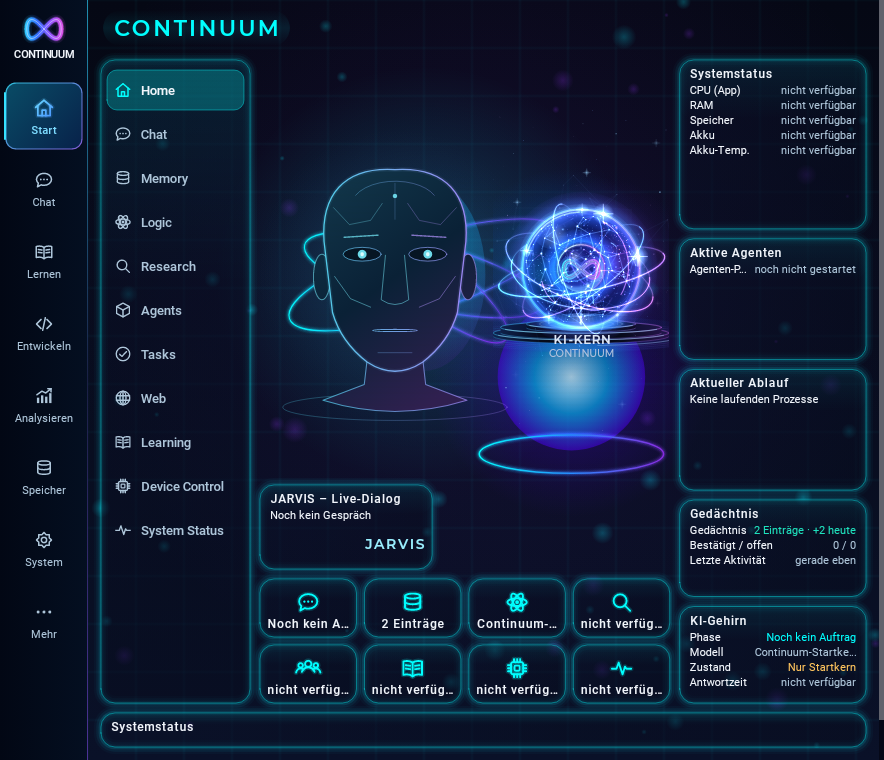
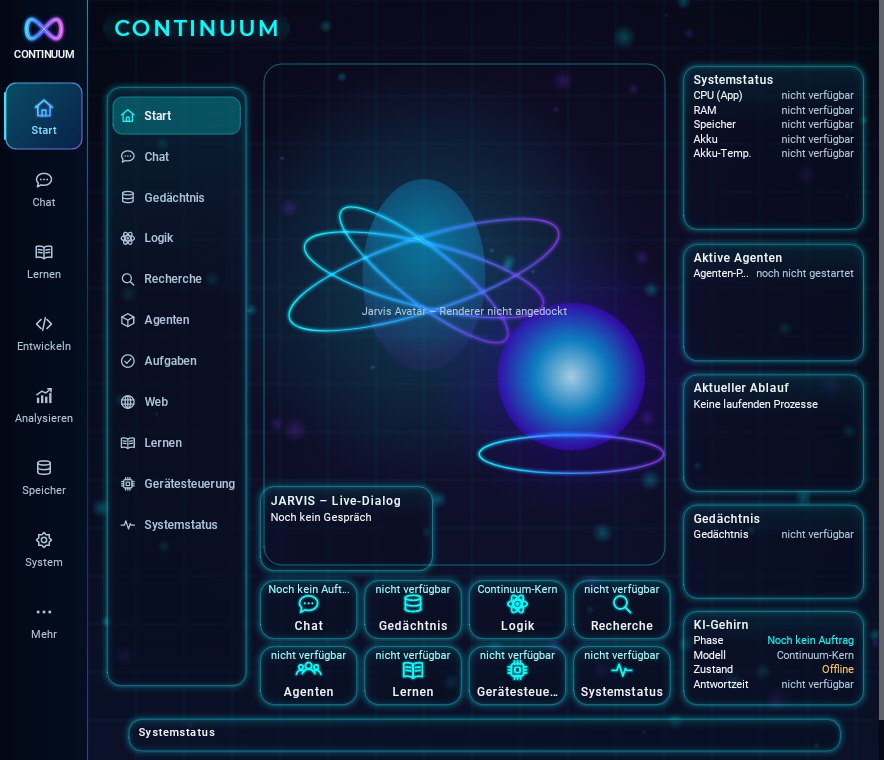
Verträge ergänzt (Alarm, C_WARP, AvatarPresentation, Motion-Interfaces, AudioLevelSource), ARCHITEKTUR-JARVIS.md, UI-Tests grün
Fertig:
- AlarmRaised/AlarmCleared + AlarmKind, nur aus echten Signalen: Thermal-Status (API 29+), onTrimMemory,
  Worker-Warteschlange voll. Flankengesteuert über triggers.alarm(). Darstellung über den Hook (Lückenfüller).
- TransitionPattern.C_WARP (nur Hook) und JarvisAvatarRenderer.onPresentation(AvatarPresentation HEAD/FULL_BODY_ORB).
- motion/MotionContracts.kt (pure Kotlin): Easing, SpringCurve, Stagger, MotionTrack, MotionTimeline (nur Interface,
  die Klasse liefert Mathematik), FaceWeightsSource (21 Blendshapes #478), AudioLevelSource, VisemeHintSource, MotionLibrary.
  Produktions-AudioLevelSource = TtsHologramSignal (0..1, Stille 0).
- Avatar-Slot: Hologramm nur abgeklemmt (GONE, solange das Home es hält); im Chat bleibt derselbe Avatar sichtbar.
- docs/ARCHITEKTUR-JARVIS.md: Komponenten, Ereignisse, Schnittstellen pro Bot, Datenquellen, Memory-Events
  (#371 noch nicht produktiv: LEX3/LEX4), Quelle fehlt, #479-Lücken, Branches.
Tests: cockpit.* inkl. Alarm-Test, ContinuumCockpit*, JarvisShellStageUiTest (3), ContinuumReferenceCockpitUiTest (8) grün.
Offen: Zeitachse + Szene 1, Bloom/Glas/Tiefe, PR-Notiz.

diff --git a/app/src/main/java/at/heinz/deviceai/AgentActivity.kt b/app/src/main/java/at/heinz/deviceai/AgentActivity.kt
@@ -953,6 +953,7 @@ class AgentActivity : Activity() {
             cockpitBus.subscribe { runOnUiThread { pushCockpitState() } }
         )
         subscribeMemoryEvents()
+        subscribeRealSignals()
         dashboard.addView(home, matchWidth())
         workStatusView = textView("Bereit", 13f, ACCENT).apply {
             setPadding(dp(16), dp(10), dp(16), dp(10))
@@ -1197,6 +1198,37 @@ class AgentActivity : Activity() {
     }
 
     /** Live cockpit inputs from the Activity's real sources (turn, worker pool, steps, visible dialog). */
+    /** Real level/alarm signals for the cockpit timeline (no simulated values). */
+    private fun subscribeRealSignals() {
+        at.heinz.deviceai.motion.MotionLibrary.audioLevel =
+            at.heinz.deviceai.motion.AudioLevelSource { t -> voiceSignal.level(t).coerceIn(0f, 1f) }
+        cockpitSubscriptions += AutoCloseable {
+            at.heinz.deviceai.motion.MotionLibrary.audioLevel = at.heinz.deviceai.motion.AudioLevelSource { 0f }
+        }
+        if (android.os.Build.VERSION.SDK_INT >= android.os.Build.VERSION_CODES.Q) {
+            val power = getSystemService(android.os.PowerManager::class.java) ?: return
+            val listener = android.os.PowerManager.OnThermalStatusChangedListener { status ->
+                cockpitTriggers.alarm(at.heinz.deviceai.cockpit.AlarmKind.THERMAL,
+                    status >= android.os.PowerManager.THERMAL_STATUS_SEVERE, "Thermal-Status",
+                    status.toDouble(), android.os.PowerManager.THERMAL_STATUS_SEVERE.toDouble())
+            }
+            power.addThermalStatusListener(mainExecutor, listener)
+            cockpitSubscriptions += AutoCloseable { power.removeThermalStatusListener(listener) }
+        }
+    }
+
+    override fun onTrimMemory(level: Int) {
+        super.onTrimMemory(level)
+        @Suppress("DEPRECATION")
+        val pressure = level == android.content.ComponentCallbacks2.TRIM_MEMORY_RUNNING_LOW ||
+            level == android.content.ComponentCallbacks2.TRIM_MEMORY_RUNNING_CRITICAL ||
+            level == android.content.ComponentCallbacks2.TRIM_MEMORY_COMPLETE
+        if (pressure) cockpitTriggers.alarm(at.heinz.deviceai.cockpit.AlarmKind.MEMORY_PRESSURE, true, "onTrimMemory",
+            level.toDouble(), android.content.ComponentCallbacks2.TRIM_MEMORY_RUNNING_LOW.toDouble())
+        else if (level == android.content.ComponentCallbacks2.TRIM_MEMORY_UI_HIDDEN) Unit
+        else cockpitTriggers.alarm(at.heinz.deviceai.cockpit.AlarmKind.MEMORY_PRESSURE, false, "onTrimMemory")
+    }
+
     /** Memory events → cockpit bus, coalesced on the main thread (closed with the other cockpit subscriptions). */
     private fun subscribeMemoryEvents() {
         val source = at.heinz.deviceai.cockpit.MemoryEventSources.production ?: return
@@ -2295,6 +2327,7 @@ class AgentActivity : Activity() {
         )
         effectContext?.let { chiefTaskEffectContexts[brief.id] = it }
         val accepted = pool.submit(brief) { report ->
+            cockpitTriggers.alarm(at.heinz.deviceai.cockpit.AlarmKind.DATA_OVERLOAD, false, "Worker-Warteschlange")
             chiefTaskEffectContexts.remove(brief.id)
             cockpitTriggers.workerReported(report)
             runOnUiThread { lastChiefWorkerReport = report }
@@ -2309,6 +2342,10 @@ class AgentActivity : Activity() {
             }
         }
         if (accepted) cockpitTriggers.workerStarted(brief.id, brief.goal)
+        // Real signal: the pool refused because running + queued reached its capacity.
+        if (!accepted && pool.snapshot().size >= pool.capacity) cockpitTriggers.alarm(
+            at.heinz.deviceai.cockpit.AlarmKind.DATA_OVERLOAD, true, "Worker-Warteschlange",
+            pool.snapshot().size.toDouble(), pool.capacity.toDouble())
         if (!accepted) {
             chiefTaskEffectContexts.remove(brief.id)
             addAssistantMessage(

diff --git a/app/src/main/java/at/heinz/deviceai/motion/MotionContracts.kt b/app/src/main/java/at/heinz/deviceai/motion/MotionContracts.kt
@@ -1,0 +1,54 @@
+package at.heinz.deviceai.motion
+
+/*
+ * Pure-Kotlin motion contracts (owner of the interface: Jarvis Kern; implementation: Jarvis Mathematik).
+ * No Android imports. The cockpit timeline uses an implementation when one is registered in [MotionLibrary]
+ * and falls back to the current JarvisMotion defaults otherwise.
+ */
+
+fun interface Easing { fun at(t: Float): Float }
+
+interface SpringCurve {
+    fun valueAt(tSec: Float): Float
+    val settleSec: Float
+}
+
+fun interface Stagger { fun delaySec(index: Int, count: Int): Float }
+
+/**
+ * Visemes/blendshapes, blink, breathing. Writes into [out] (size = channelNames.size) in the
+ * FilamentAvatarRenderer (#478) 21-blendshape order; must not allocate.
+ */
+interface FaceWeightsSource {
+    val channelNames: List<String>
+    fun weightsAt(timeMs: Long, out: FloatArray)
+}
+
+data class MotionTrack(val key: String, val startMs: Long, val durationMs: Long, val easing: Easing)
+
+/**
+ * Agreed shape (interface only, Mathematik ships the class): evaluates every track at [tMs] into [out]
+ * (index = track order, value 0..1 eased progress); must not allocate.
+ */
+interface MotionTimeline {
+    val tracks: List<MotionTrack>
+    val totalMs: Long
+    fun evaluate(tMs: Long, out: FloatArray)
+}
+
+/** 0..1 normalised RMS of the real TTS/mic output; silence = 0. Drives waveform AND lip-sync. */
+fun interface AudioLevelSource { fun levelAt(timeMs: Long): Float }
+
+/** Optional: viseme index only if the TTS engine provides phonemes; null = none. */
+fun interface VisemeHintSource { fun visemeAt(timeMs: Long): Int? }
+
+/** Registration point; null = cockpit defaults. */
+object MotionLibrary {
+    /** Production instance set by the app from TtsHologramSignal (clock: SystemClock.elapsedRealtime). */
+    @Volatile var audioLevel: AudioLevelSource = AudioLevelSource { 0f }
+    @Volatile var visemeHint: VisemeHintSource? = null
+    @Volatile var easing: Easing? = null
+    @Volatile var spring: SpringCurve? = null
+    @Volatile var stagger: Stagger? = null
+    @Volatile var faceWeights: FaceWeightsSource? = null
+}

diff --git a/app/src/main/java/at/heinz/deviceai/cockpit/CockpitContracts.kt b/app/src/main/java/at/heinz/deviceai/cockpit/CockpitContracts.kt
@@ -23,9 +23,13 @@ interface JarvisAvatarRenderer {
     fun detach()
     /** Optional: slot moved/resized (rotation, fold, font scale). */
     fun onSlotChanged(slot: Rect) = Unit
+    /** Optional: head only vs. full body with orb (video 3). */
+    fun onPresentation(mode: AvatarPresentation) = Unit
     /** Optional: full avatar contract events (speech, visemes, audio level, gaze) for lip-sync. */
     fun onAvatarEvent(event: AvatarEvent) = Unit
 }
+
+enum class AvatarPresentation { HEAD, FULL_BODY_ORB }
 
 object JarvisAvatarSlot {
     @Volatile var renderer: JarvisAvatarRenderer? = null
@@ -71,9 +75,17 @@ interface CockpitActionHandler {
 }
 
 /** A = menu/scene change as depth move (JarvisMotion.Depth); B = area/panel fly-in (JarvisShellView.playEntrance). */
-enum class TransitionPattern { A_DEPTH, B_FLY_IN }
+enum class TransitionPattern { A_DEPTH, B_FLY_IN, C_WARP }
 
 const val NAV_TURN = "nav"
+
+// ---- Alarms, video 3 (Jarvis Lückenfüller draws them; emitted only from real signals) ----
+
+/**
+ * DATA_OVERLOAD: memory event hub dropped events (droppedEventCount rising) or the worker queue is full.
+ * THERMAL: PowerManager thermal status. MEMORY_PRESSURE: onTrimMemory / low-memory.
+ */
+enum class AlarmKind { DATA_OVERLOAD, THERMAL, MEMORY_PRESSURE }
 
 // ---- Answer pills and Gmail, patterns F/G (implemented by Jarvis Sicherheit) ----
 

diff --git a/app/src/main/java/at/heinz/deviceai/ui/CockpitAnimationPresenter.kt b/app/src/main/java/at/heinz/deviceai/ui/CockpitAnimationPresenter.kt
@@ -43,6 +43,7 @@ class CockpitAnimationPresenter(private val home: ContinuumHomeView) : CockpitAn
         when (event.pattern) {
             at.heinz.deviceai.cockpit.TransitionPattern.B_FLY_IN ->
                 if (home.jarvisShellStage) home.jarvisShell.playEntrance() else if (home.landscapeCockpit) flyInCards()
+            at.heinz.deviceai.cockpit.TransitionPattern.C_WARP -> Unit // visual via hook only (no default)
             at.heinz.deviceai.cockpit.TransitionPattern.A_DEPTH -> if (motionAllowed()) {
                 val s = JarvisMotion.Depth.scale(JarvisMotion.Depth.Layer.FAR)
                 home.animate().cancel()
@@ -92,6 +93,9 @@ class CockpitAnimationPresenter(private val home: ContinuumHomeView) : CockpitAn
                 event.steps.take(4).map { it.label + " = " + it.value } + ("Ergebnis = " + event.result + (event.unit?.let { " $it" } ?: "")),
                 motionAllowed())
             is CockpitAnimationEvent.AreaChanged -> Unit // handled by playArea
+            // Alarm visuals belong to Jarvis Lückenfüller (hook); minimal default: system card glows.
+            is CockpitAnimationEvent.AlarmRaised -> highlight(Slot.SYSTEM_STATUS)
+            is CockpitAnimationEvent.AlarmCleared -> Unit
             is CockpitAnimationEvent.Extension -> Unit // unknown kinds are ignored by design
         }
     }

diff --git a/app/src/main/java/at/heinz/deviceai/ui/ContinuumHomeView.kt b/app/src/main/java/at/heinz/deviceai/ui/ContinuumHomeView.kt
@@ -178,8 +178,19 @@ class ContinuumHomeView(context: Context, val hologram: ContinuumHologramView, p
             dockedRenderer = null
             if (wanted != null && !avatarRect.isEmpty) { wanted.attach(this, android.graphics.Rect(avatarRect)); dockedRenderer = wanted }
         }
-        hologram.visibility = if (owns) View.GONE else View.VISIBLE
+        // Only while the home hosts it: chat and other panes reparent the same avatar and keep it visible.
+        if (hologram.parent === this) hologram.visibility = if (owns) View.GONE else View.VISIBLE
         avatarPlaceholder.visibility = if (owns && dockedRenderer == null) View.VISIBLE else View.GONE
+    }
+
+    override fun onViewRemoved(child: View?) {
+        super.onViewRemoved(child)
+        if (child === hologram) child.visibility = View.VISIBLE
+    }
+
+    override fun onViewAdded(child: View?) {
+        super.onViewAdded(child)
+        if (child === hologram && views.isNotEmpty()) applyAvatarSlot()
     }
 
     private fun layoutAvatarSlot(left: Int, top: Int, right: Int, bottom: Int) {

diff --git a/app/src/test/java/at/heinz/deviceai/cockpit/CockpitContractsTest.kt b/app/src/test/java/at/heinz/deviceai/cockpit/CockpitContractsTest.kt
@@ -58,4 +58,18 @@ class CockpitContractsTest {
             CockpitAnimationEvent.AreaChanged(NAV_TURN, 7L, "home", "memory", TransitionPattern.B_FLY_IN),
             CockpitAnimationEvent.AreaChanged(NAV_TURN, 7L, null, "logic", TransitionPattern.A_DEPTH)), seen)
     }
+
+    @Test fun alarmsAreEdgeTriggeredFromRealSignals() {
+        val bus = CockpitAnimationBus()
+        val seen = mutableListOf<CockpitAnimationEvent>()
+        bus.subscribe { seen += it }
+        val t = CockpitAnimationTriggers(bus) { 3L }
+        t.alarm(AlarmKind.THERMAL, true, "Thermal-Status", 4.0, 3.0)
+        t.alarm(AlarmKind.THERMAL, true, "Thermal-Status", 5.0, 3.0)
+        t.alarm(AlarmKind.DATA_OVERLOAD, false, "Worker-Warteschlange")
+        t.alarm(AlarmKind.THERMAL, false, "Thermal-Status")
+        assertEquals(listOf(
+            CockpitAnimationEvent.AlarmRaised(ALARM_TURN, 3L, AlarmKind.THERMAL, "Thermal-Status", 4.0, 3.0),
+            CockpitAnimationEvent.AlarmCleared(ALARM_TURN, 3L, AlarmKind.THERMAL)), seen)
+    }
 }

diff --git a/app/src/main/java/at/heinz/deviceai/cockpit/CockpitAnimationTriggers.kt b/app/src/main/java/at/heinz/deviceai/cockpit/CockpitAnimationTriggers.kt
@@ -144,4 +144,16 @@ class CockpitAnimationTriggers(private val bus: CockpitAnimationBus, private val
         if (target.isEmpty()) return
         bus.emit(CockpitAnimationEvent.AreaChanged(NAV_TURN, clock(), from?.let { clean(it, 64) }?.ifEmpty { null }, target, pattern))
     }
+
+    private val activeAlarms = java.util.EnumSet.noneOf(AlarmKind::class.java)
+
+    /** Real alarm signal (edge-triggered): raises once when [active] turns true, clears once when it turns false. */
+    fun alarm(kind: AlarmKind, active: Boolean, sourceLabel: String, measured: Double? = null, threshold: Double? = null) {
+        val changed = synchronized(activeAlarms) { if (active) activeAlarms.add(kind) else activeAlarms.remove(kind) }
+        if (!changed) return
+        bus.emit(if (active) CockpitAnimationEvent.AlarmRaised(ALARM_TURN, clock(), kind, clean(sourceLabel, 64), measured, threshold)
+            else CockpitAnimationEvent.AlarmCleared(ALARM_TURN, clock(), kind))
+    }
 }
+
+const val ALARM_TURN = "alarm"

diff --git a/app/src/main/java/at/heinz/deviceai/cockpit/CockpitAnimationEvent.kt b/app/src/main/java/at/heinz/deviceai/cockpit/CockpitAnimationEvent.kt
@@ -67,6 +67,13 @@ sealed class CockpitAnimationEvent {
     data class AreaChanged(override val turnId: String, override val atMillis: Long, val fromTarget: String?,
                            val toTarget: String, val pattern: TransitionPattern) : CockpitAnimationEvent()
 
+    /** A real alarm signal crossed its threshold ([measured]/[threshold] null when the platform gives only a level). */
+    data class AlarmRaised(override val turnId: String, override val atMillis: Long, val kind: AlarmKind,
+                           val sourceLabel: String, val measured: Double?, val threshold: Double?) : CockpitAnimationEvent()
+
+    data class AlarmCleared(override val turnId: String, override val atMillis: Long, val kind: AlarmKind) :
+        CockpitAnimationEvent()
+
     /**
      * Extension point for future event families, first of all the calculation / math visualisation of the
      * reference videos (e.g. `class MathVisualization(...) : CockpitAnimationEvent.Extension("math")`).

diff --git a/docs/ARCHITEKTUR-JARVIS.md b/docs/ARCHITEKTUR-JARVIS.md
@@ -1,0 +1,51 @@
+# Jarvis-Architektur (eine Seite, Besitzer der Schnittstellen: Jarvis Kern)
+
+**Regel:** Die Schnittstellen ändert nur Jarvis Kern. Wer eine neue braucht, fragt Kern.
+**Auslöser** (wann etwas startet) gehören allein Kern: die Zeitachse im `CockpitAnimationPresenter`, getrieben von echten Ereignissen.
+**Aussehen und Bewegung** gehören dem Besitzer des jeweiligen Stücks. Kern baut außer Bloom, Glas und Tiefe kein Aussehen.
+**Übergabeformat:** „fertig: X auf Branch Y @sha, Einbau über Schnittstelle Z“.
+**Grundregel:** Kein Code wird gelöscht. Was ersetzt ist, wird abgeklemmt und bleibt im Repo. Kein Force-Push, keine Branches löschen.
+
+## Komponenten
+| Baustein | Datei | Aufgabe |
+|---|---|---|
+| Ereignisbus | `cockpit/CockpitAnimationEvent.kt` (`CockpitAnimationBus`) | typisierte Ereignisse, Renderer-Fehler bleiben isoliert |
+| Auslöser | `cockpit/CockpitAnimationTriggers.kt` | TurnLifecycle-, ToolGate-, ChiefWorkerPool-, Bereichs- und Alarm-Signale → Ereignisse |
+| Verträge | `cockpit/CockpitContracts.kt`, `motion/MotionContracts.kt` | Schnittstellen für die Bots (unten) |
+| Zeitachse/Presenter | `ui/CockpitAnimationPresenter.kt` | spielt zuerst den Hook (`CockpitTransitions.hook`), sonst einen minimalen, austauschbaren Standard |
+| Shell (#479 @35a68f49) | `ui/JarvisShell*`, `JarvisDesign/Neon/Motion/Tiles`, `JarvisGlassRenderer` | Geometrie, Glas, Bewegung; `JarvisShellView` ist die unterste Ebene in `ContinuumHomeView` |
+| Inhalte | `ui/JarvisShellContent.kt`, `ui/ContinuumCockpitPresentation.kt` | Werte für Slots und Kacheln (fehlt etwas: „nicht verfügbar“) |
+| Landscape-Cockpit | `ui/ContinuumLandscapeCockpit*.kt` | ref1/ref3-Komposition (Spaltenaufteilung als Kern-Konstante) |
+
+## Ereignisse (`CockpitAnimationEvent`)
+CommandFlyIn, ActionStarted, ProcessTimeline, TurnEnded (TurnLifecycle/ToolGate/Pool) · AccountCardFlyIn, DocumentQuestion (Quelle fehlt) · DocumentLearned, MemoryStored(count), RecallHits (`MEMORY_TURN`) · CalculationShown (Muster E) · AreaChanged(`NAV_TURN`, TransitionPattern A_DEPTH/B_FLY_IN/C_WARP) · AlarmRaised/AlarmCleared(`ALARM_TURN`, AlarmKind) · Extension(kind).
+Sprechen und Lippensync laufen nicht über den Bus, sondern über den Avatar-Vertrag (AvatarDirector → `JarvisAvatarSlot.fanOut`).
+
+## Schnittstellen für die Bots (wer implementiert was)
+| Schnittstelle | Implementiert | Kern liefert |
+|---|---|---|
+| `JarvisAvatarRenderer` (attach/onAvatarState/onAnimationEvent/detach, optional onSlotChanged, onPresentation(AvatarPresentation HEAD/FULL_BODY_ORB), onAvatarEvent) + `JarvisAvatarSlot.register` | **Jarvis Avatar** (Kopf 1/10/11, Datei-Icons aus dem Kopf in Szene 2) | EIN Slot. Ohne Renderer ein leerer Platzhalter „Jarvis Avatar – Renderer nicht angedockt“. Unser eigener Kopf/Orb (ContinuumHologramView) ist in den Cockpit-Modi abgeklemmt, nicht gelöscht |
+| `CalculationEventSource` → `CalculationShown`, `CalcStep`, `ChartKind` | **Jarvis Gedächtnis** (Orb, Datenflug E, sichtbares Rechnen, Widgets-Einflug) | Auslöser, minimale Karte als Standard |
+| `JarvisNavigator`, `CockpitActionHandler`/`ActionAvailability`, `triggers.areaChanged()` | **Jarvis Integration** (Rail ref5, B-Bewegung, Szene A, Kameradrift, Aktionsleiste, Szene 3b) | AreaChanged → Hook, sonst playEntrance()/minimale Tiefe |
+| `PillActionGate` (AnswerPill/AnswerPillKind), `AccountEventSource` | **Jarvis Sicherheit** (Umschlag F, Pills G, Laser D mit Funken) | nur ToolGate plus ausdrückliches Owner-Ja, nie Auto-Ausführung |
+| AlarmRaised/Cleared, C_WARP, AvatarPresentation | **Jarvis Lückenfüller** (Video 3) | Signale: Thermal-Status (API 29+), onTrimMemory, Worker-Warteschlange voll. Hub-droppedEventCount folgt mit #371 |
+| `Easing`, `SpringCurve`, `Stagger`, `MotionTrack`, `MotionTimeline` (nur Interface), `FaceWeightsSource` (21 Blendshapes, #478-Reihenfolge), `VisemeHintSource`, `MotionLibrary` | **Jarvis Mathematik** (pure Kotlin, auf JarvisMotion) | Fallback auf JarvisMotion. `AudioLevelSource`-Produktion = TtsHologramSignal (0..1, Stille = 0, Uhr elapsedRealtime) |
+| Bloom, Glas, Tiefenschärfe, Zeitachse, Szene 1 (Auslöser) | **Jarvis Kern** | — |
+
+Fold7 offen: breite beschriftete Rail in beiden Ausrichtungen. Die Bottom-Bar gibt es nur auf Cover-Display und Phone (Chef-Entscheidung; Umsetzung Integration auf #483).
+
+## Datenquellen
+TurnLifecycle (Phase), ChiefWorkerPool.snapshot()/capacity (nur lesend, unveränderliche Kopie, siehe docs/CHIEF-PATTERN.md), ToolGate-Runner (Tool-Schritte), ContinuumDashboardCollector (CPU, RAM, Speicher, Akku, Akku-Temperatur), ContinuumMemoryStatsReader (#371, gedrosselt alle 15 s, nie pro Frame), TtsHologramSignal (Audiopegel).
+
+**Memory-Events:** Die vereinbarte Signatur lautet `ContinuumMemoryEvents.forApp(appDirectory).addListener(ContinuumMemoryEventListener): AutoCloseable` mit DocumentLearned/MemoryStored/RecallHits. Der Listener läuft außerhalb des Main-Threads. `MemoryEventMapper` bündelt deshalb atomar und spült höchstens alle 100 ms auf dem Main-Thread. Nach `detach()` werden Nachzügler ignoriert.
+Geliefert ist es auf #371 @de333693, aber **auf diesem Branch noch nicht produktiv**: #371 baut auf dem LEX4-Ledger, die Basis (ChatGPT) auf dem segmentierten LEX3. Cherry-Pick oder Merge kollidieren in ContinuumLearningExperience und ContinuumThinkingMemory, die Zusammenführung gehört Gedächtnis/Integration. Danach ist `MemoryEventSources.production` die Bridge aus `MemoryEventSourceTest.asSource()`.
+PDF: Im Repo gibt es keinen PDF-Import, daher bleibt DocumentQuestion „Quelle fehlt“.
+
+## Quelle fehlt
+DocumentQuestion (kein PDF-Import) · AccountCardFlyIn (kein Gmail-Pfad, wartet auf `AccountEventSource`) · Memory-Events produktiv (Ledger-Linien) · Kacheln Recherche/Lernen (kein Live-Zähler) · Anrufen-Pill (kein Tool) · Mikrofonpegel (nur TTS-Pegel).
+
+## Lücken an #479-Schnittstellen (jetzt an Avatar/Integration)
+Kein Hit-Test und keine Accessibility pro Slot oder Kachel (Kern spiegelt die Geometrie von drawRail/drawBottomNav) · Platzhalter werden auch ohne Inhalt gezeichnet · `onDraw` erzeugt jeden Frame das Shell-Layout · keine Spaltenaufteilung für das ref1/ref3-Cockpit · Shell-Stage ist opt-in (`jarvis-shell`), solange Touch und Accessibility fehlen.
+
+## Branches und PRs
+#481 `design/jarvis-cockpit-home-20261104` (Kern, Entwurf) · Basis `fix/continuum-device-experience-resume-20261104` (ChatGPT, #477) · #479 `grok/jarvis-design-system` @35a68f49 · #371 `continuum/m2-cognitive-memory` · #483 (Integration) · `jarvis-grafik/avatar-ref-match` (Avatar, JarvisSequence).
